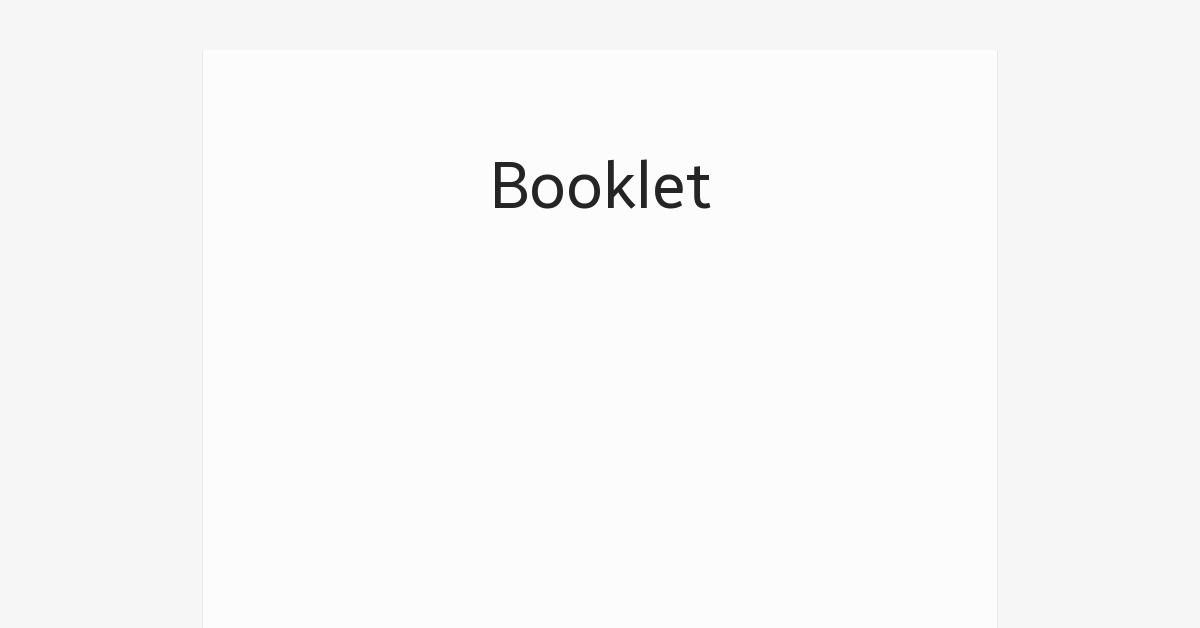
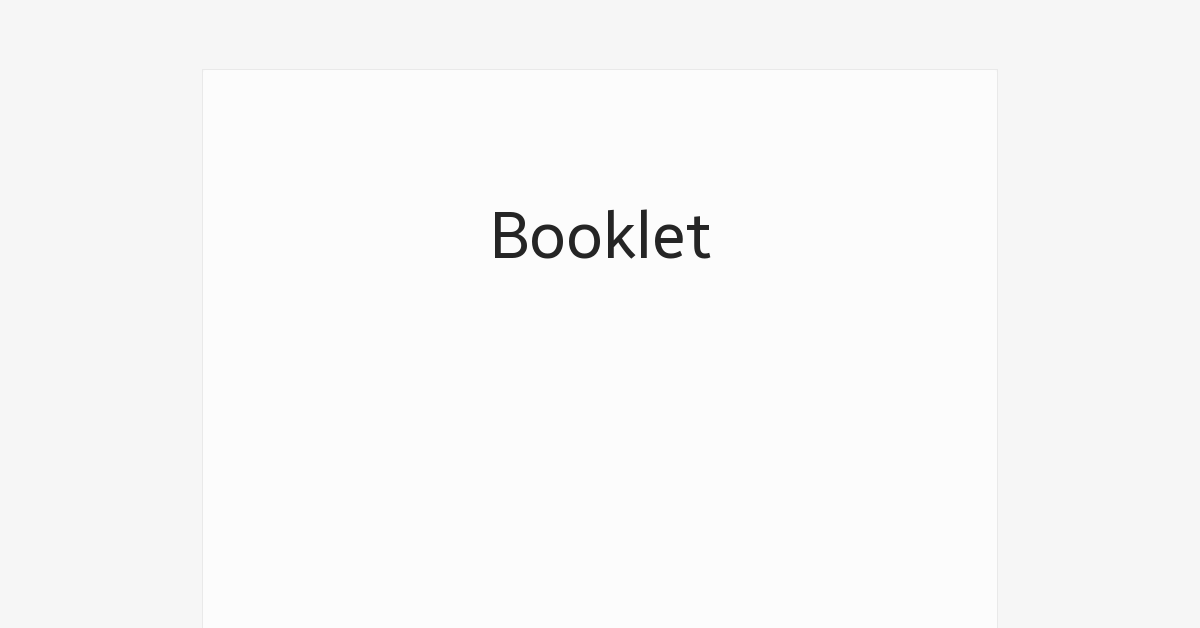
deploy: 0dae92669f12a8fdb2daf5e41942aa2b396ec13b

Changed region(s): [[0.4008, 0.242, 0.5858, 0.4236]]

diff --git a/overview/index.html b/overview/index.html
@@ -16,17 +16,16 @@
     <!---->
 
     <!---->
-    <link rel="manifest" href="/booklet/booklet.webmanifest" crossorigin="use-credentials">
+    <link rel="manifest" href="/booklet/booklet.webmanifest" crossorigin="use-credentials" />
     <link href="https://applic.dev/booklet/assets/fonts/BreezeSans.css" rel="stylesheet" />
     <!---->
 
     <!---->
     <script>
-      if ('serviceWorker' in navigator) 
-        navigator.serviceWorker.register('/booklet/booklet.service-worker.js');
+      if ('serviceWorker' in navigator) navigator.serviceWorker.register('/booklet/booklet.service-worker.js');
     </script>
     <!---->
-    
+
     <style>
       html {
         font-size: 16px;
@@ -61,11 +60,11 @@
         padding: 1.25rem;
 
         width: 100vw;
-        margin: 0rem 0rem;
+        margin: 3.125rem 0rem;
       }
 
       header {
-        position: sticky;
+        position: fixed;
         inset: 0rem 0rem auto 0rem;
 
         display: flex;
@@ -135,8 +134,7 @@
     </style>
   </head>
   <body>
-    <header>
-    </header>
+    <header></header>
 
     <main>
       <section>
@@ -147,4 +145,3 @@
     </main>
   </body>
 </html>
-  
